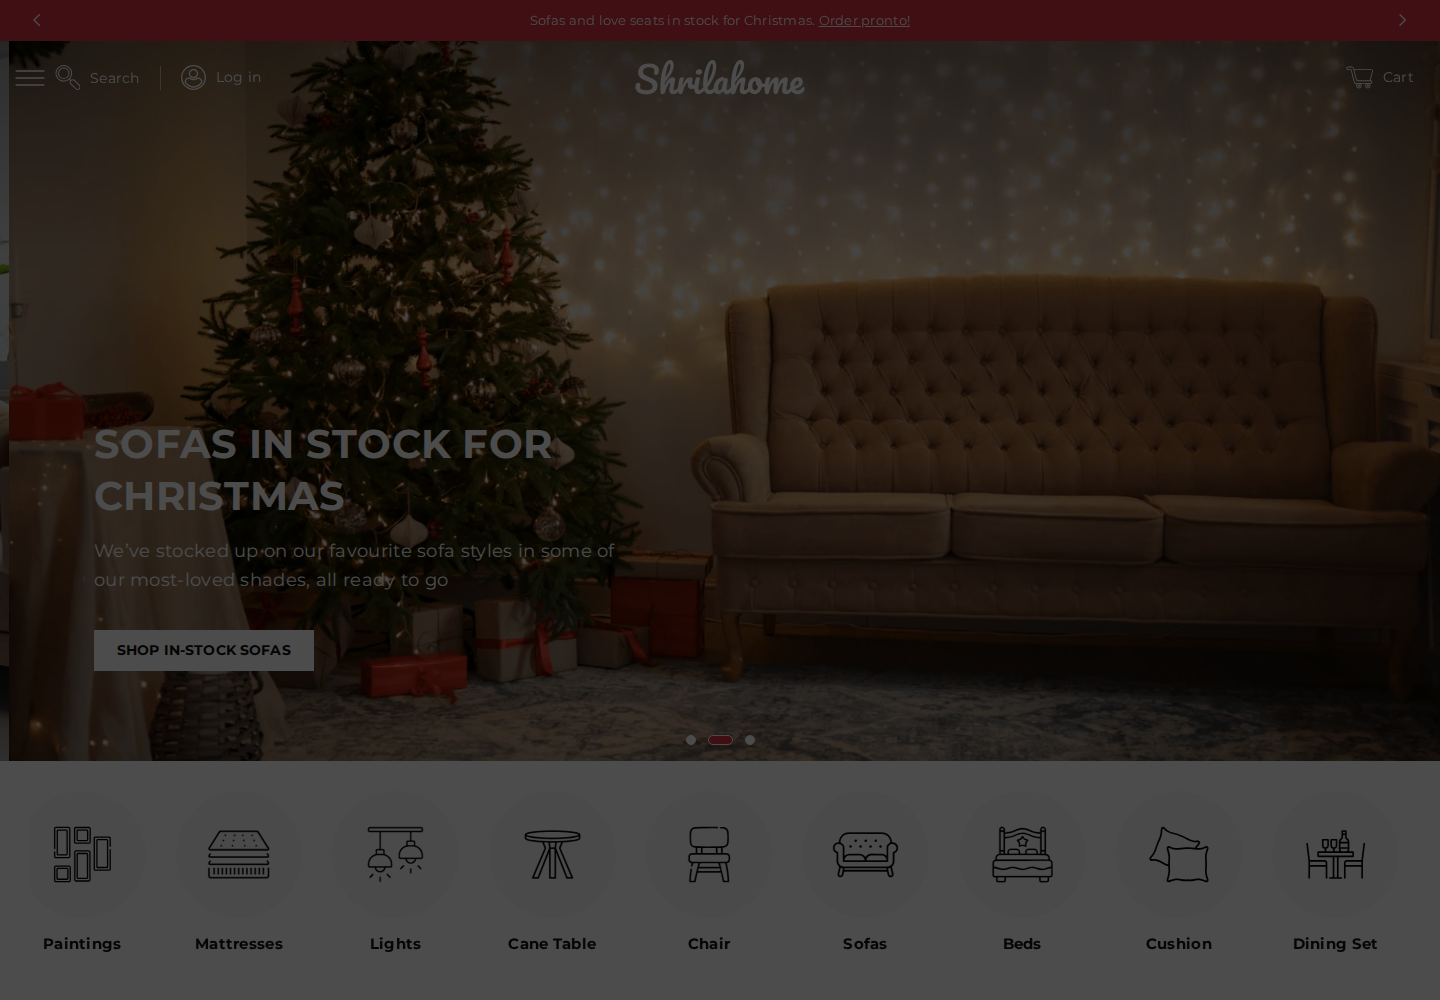
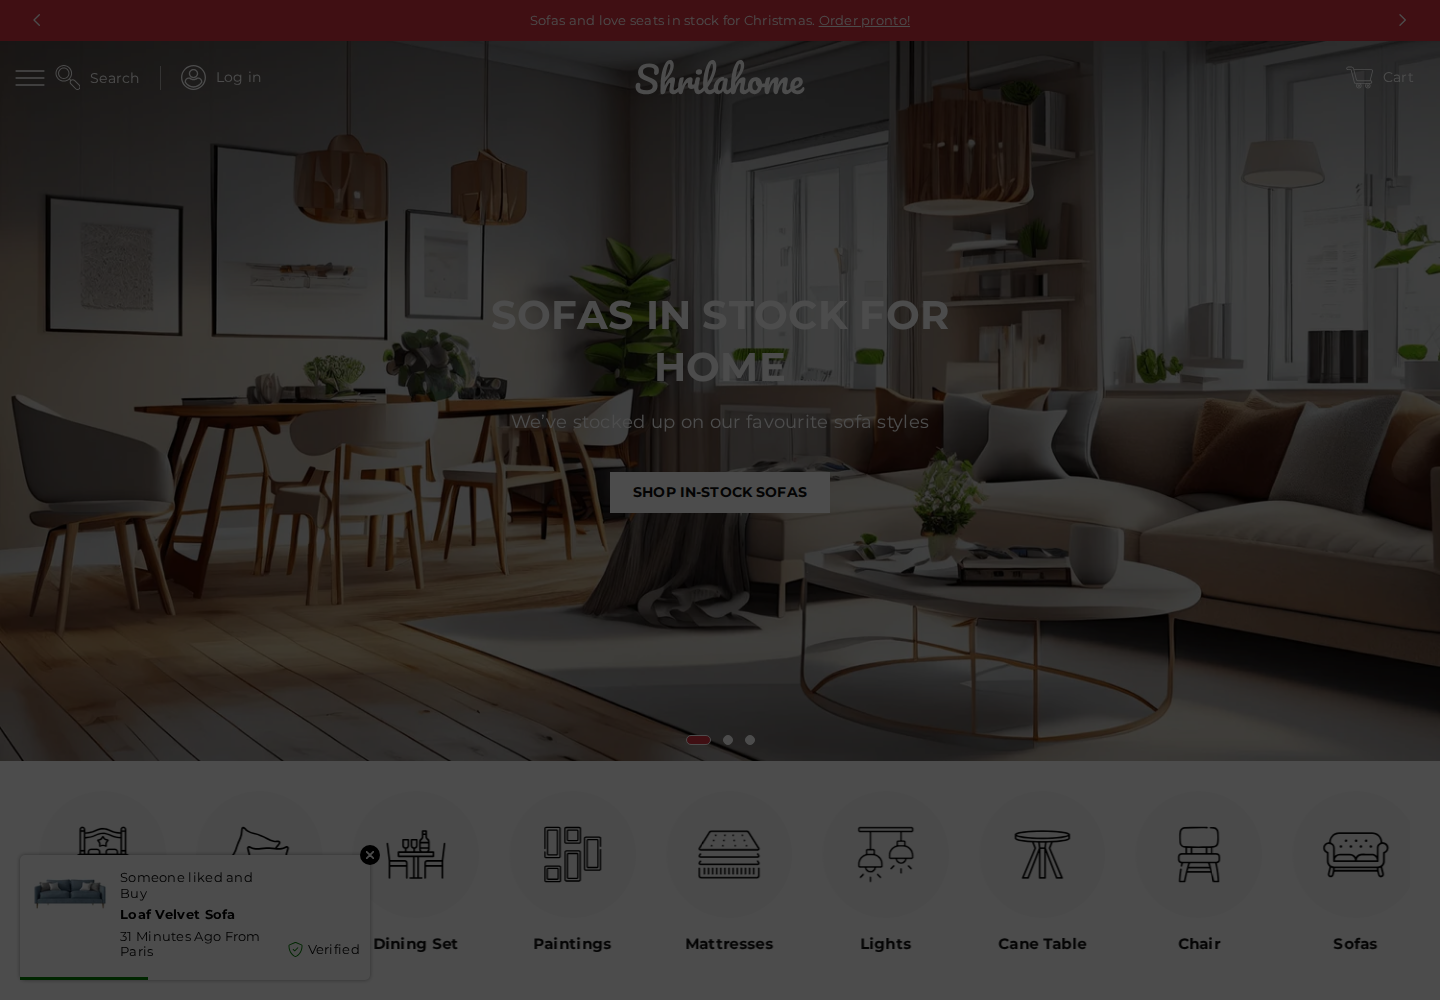
Finish Shrilahome interact findings after one retry
Pixel-verified: hero dot 3 (Christmas → Cushion) and PDP tabs
(Description → Additional Information). Header/menu/search overlay
still missing after retry — 1440 hamburger summary is 0-width, closed
#menu-drawer keeps an off-screen box, two search modals stay hidden.
No schema changes. Validator 0 error.

diff --git a/todo/shrilahome.md b/todo/shrilahome.md
@@ -13,7 +13,7 @@ shop `pandora-furniture-5.myshopify.com`
 
 **Password:** `/` **302** → `/password`. Vendor product page: *Please enter password "1" to view demo.* Hidden input `value="1"` posts to **this same host**. Public storefront-unlock. Başka host yok.
 
-**Durum:** Mod A roster yazıldı · 3vp + interact **sırada** · **main'e merge yok**
+**Durum:** Mod A + interact kapandı · **38 obs · 166 PNG · 0 yeni şema** · **main'e merge yok**
 
 ---
 
@@ -25,10 +25,11 @@ shop `pandora-furniture-5.myshopify.com`
 | Capture | resmi `capture-observation.mjs` + `capture-interaction.mjs` + `unlock-storefront.mjs` (`storefrontPassword: "1"`) |
 | Şema | **0 yeni** — mevcut tiplere observation + delta |
 | Observation | **38** |
+| Evidence | **166 PNG** |
 | Parallel | yalnız `observations/shrilahome/`, `evidence/shrilahome/`, `todo/shrilahome.md`, `candidates/shrilahome-leftovers.md`, kaynak/endüstri map, unlock helper |
 
-**Kapsam satırı (hedef):**  
-`Shrilahome · default · Shrilahome-Furniture-v-1-5-0 / schema_name shrilahome 1.5.0 · theme_store_id null · shop pandora-furniture-5.myshopify.com · password 1 · home→PDP circle-lounge-chairs→PLP armchairs→/collections→search sofa→cart→about/contact/faqs→404 · 38 obs · 0 yeni şema · leftover: candidates/shrilahome-leftovers.md`
+**Kapsam satırı:**  
+`Shrilahome · default · Shrilahome-Furniture-v-1-5-0 / schema_name shrilahome 1.5.0 · theme_store_id null · shop pandora-furniture-5.myshopify.com · password 1 · home→PDP circle-lounge-chairs→PLP armchairs→/collections→search sofa→cart→about/contact/faqs→404 · 38 obs · 166 PNG · 0 yeni şema · leftover: candidates/shrilahome-leftovers.md`
 
 ---
 
@@ -36,20 +37,22 @@ shop `pandora-furniture-5.myshopify.com`
 
 | Şablon | Durum | 3vp |
 |---|---|---|
-| Home roster (announcement→footer) | roster | [ ] capture |
-| Header kapalı + 1440 menu | roster | [ ] interact |
-| Predictive search `sofa` | roster | [ ] interact |
-| Mobile hamburger 375+768 | roster | [ ] interact |
-| Cart drawer / notification filled | roster | [ ] interact |
-| PDP Circle Lounge Brown→Gray | roster | [ ] interact |
-| PLP `/collections/armchairs` | roster | [ ] capture |
-| Collections index `/collections` | roster | [ ] capture |
-| Search `/search?q=sofa` | roster | [ ] capture |
-| Cart `/cart` empty + filled + qty | roster | [ ] interact |
-| About `/pages/about-us` | roster | [ ] capture |
-| Contact form (submit yok) | roster | [ ] interact initial |
-| FAQ accordion | roster | [ ] interact |
-| 404 | roster | [ ] capture |
+| Home roster (announcement→footer) | done | [x] 3vp |
+| Header kapalı + 1440 menu | initial kanıtlı; open kare homepage | [x] interact · open missing |
+| Predictive search `sofa` | overlay input missing; `/search?q=sofa` var | [x] interact · input missing |
+| Mobile hamburger 375+768 | DOM açılıyor; PNG drawer göstermedi | [x] interact · open/changed missing |
+| Cart drawer filled | Circle Lounge + YOU MAY LIKE | [x] |
+| PDP Circle Lounge Brown→Gray | Color etiketi + galeri 1440 | [x] |
+| PLP `/collections/armchairs` | banner + grid | [x] |
+| Collections index `/collections` | 15 kart | [x] |
+| Search `/search?q=sofa` | grid | [x] |
+| Cart `/cart` empty + filled + qty | $120 → $240 | [x] |
+| About `/pages/about-us` | 5 obs | [x] |
+| Contact form (submit yok) | initial | [x] |
+| FAQ accordion | açık→kapalı | [x] |
+| 404 | Page not found | [x] |
+| Hero dots slayt 3 | Christmas → Cushion | [x] |
+| PDP tabs Description→Additional | kırmızı sekme + metin | [x] |
 | Blog `/blogs/news` | leftover — home'a düşer | — |
 | Email / account / checkout / newsletter submit | ⛔ dur | — |
 
@@ -60,12 +63,12 @@ shop `pandora-furniture-5.myshopify.com`
 | # | Shrilahome / id | QANTE schemaId | Karar |
 |---|---|---|---|
 | 1 | announcement_bar_fHNTbB | `promo-announcement-bar` | reuse |
-| 2 | header | `navigation-header-mega` | reuse · sticky h=0 wrapper |
-| 3 | slideshow 3b7cb796 | `hero-slideshow` | reuse · 3 slayt |
+| 2 | header | `navigation-header-mega` | reuse · sticky h=0 wrapper · always hamburger |
+| 3 | slideshow 3b7cb796 | `hero-slideshow` | reuse · 3 slayt · ok gizli |
 | 4 | categories_slider_1 | `collection-nav-slider` | reuse · daire ikon |
 | 5 | rich_text_wDFqxx | `editorial-rich-text` | reuse |
 | 6 | image-banner 8b5479f1 | `editorial-image-with-text-overlay` | reuse · metinsiz |
-| 7 | categories_slider_2 | `collection-nav-slider.2` | reuse · foto+CTA |
+| 7 | categories_slider_2 | `collection-nav-slider.2` | reuse · foto+SHOP NOW |
 | 8 | multirow 7722eea3 | `editorial-image-with-text` | reuse · 2 satır |
 | 9 | custom_collection_list_3FaNcq | `collection-nav-image-cards` | reuse |
 | 10 | image_with_text_rQFUNp | `editorial-image-with-text.2` | reuse |
@@ -73,9 +76,9 @@ shop `pandora-furniture-5.myshopify.com`
 | 12 | image_with_text_EVYkJc | `editorial-image-with-text.3` | reuse |
 | 13 | custom_announcement_bar_jQffkk | `promo-scrolling-marquee` | reuse · mid-page |
 | 14 | footer | `footer-columns-newsletter` | reuse · submit yok |
-| 15 | #menu-drawer | `global-menu-drawer` | reuse · 375/768 |
-| 16 | details-modal.header__search | `global-predictive-search` | reuse |
-| 17 | #CartDrawer | `global-cart-drawer` | reuse |
+| 15 | #menu-drawer | `global-menu-drawer` | reuse · open PNG yok |
+| 16 | details-modal.header__search | `global-predictive-search` | reuse · overlay input yok |
+| 17 | #CartDrawer | `global-cart-drawer` | reuse · filled |
 | 18 | newsletter-popup | — | leftover + fake purchase toast |
 
 ---
@@ -88,8 +91,8 @@ shop `pandora-furniture-5.myshopify.com`
 
 ## Evidence backlog
 
-- [ ] Official 3vp static (`capture-observation.mjs`)
-- [ ] Interact header / search / cart / menu / PDP Color / FAQ / hero next
-- [ ] PNG bak → stateFindings
-- [ ] `npm run validate`
-- [ ] Newsletter / account / checkout — **yapılmayacak** (PII)
+- [x] Official 3vp static (`capture-observation.mjs`)
+- [x] Interact cart / PDP Color / FAQ / hero dots / tabs / contact initial / footer
+- [x] PNG bak → stateFindings (+ missingStates: header open, menu open/changed, search input)
+- [x] `node scripts/validate-schemas.mjs` — 0 error · 13 warn (önceden; şema yazılmadı)
+- [x] Newsletter / account / checkout — **yapılmadı** (PII)

diff --git a/candidates/shrilahome-leftovers.md b/candidates/shrilahome-leftovers.md
@@ -98,7 +98,23 @@ Karar: onay bekliyor
 ---
 
 ADAY: cro-absent  
-Gerekçe: Home’da featured product grid, countdown, quiz, before-after, lookbook, shop-the-feed yok.  
+Gerekçe: Home’da featured product grid, countdown, quiz, before-after, lookbook, shop-the-feed yok. Countdown PDP buy-box içinde.  
 Örnekler: https://pandora-furniture-5.myshopify.com/  
 Öneri: leftover — CRO tipi yok  
+Karar: onay bekliyor
+
+---
+
+ADAY: shrilahome-always-hamburger  
+Gerekçe: 1440’te de hamburger. Inline mega yok. `summary.header__icon--menu` 1440 w=0; SVG 32×32. Kapalı `#menu-drawer` off-screen w=400 — capture kutu yazar, viewport homepage kalır. 375 açık drawer yoklandı (DOM) ama PNG yazılmadı.  
+Örnekler: home header  
+Öneri: leftover — interact open/changed menü karesi yok  
+Karar: onay bekliyor
+
+---
+
+ADAY: shrilahome-search-modal-split  
+Gerekçe: İki `details-modal.header__search`. 1440 `#Search-In-Modal-1`, 375 `#Search-In-Modal`. Overlay fill ikinci denemede hidden kaldı. `/search?q=sofa` PLP kanıtlı.  
+Örnekler: home header  
+Öneri: leftover — predictive overlay  
 Karar: onay bekliyor

diff --git a/todo/README.md b/todo/README.md
@@ -45,7 +45,7 @@
 | Into The Gloss | [`intothegloss.md`](./intothegloss.md) | ✅ listicle-holiday-2025 · 9 obs · 27 PNG · 0 yeni şema · Next.js editorial |
 | HexClad | [`hexclad.md`](./hexclad.md) | ✅ listicle-fathers-day · 5 obs · 15 PNG · 0 yeni şema |
 | Allbirds | [`allbirds.md`](./allbirds.md) | 🟡 Mod A — 30 obs · ~90 PNG · partial capture (search blocked) |
-| Shrilahome (Speedo) | [`shrilahome.md`](./shrilahome.md) | 🟡 Mod A roster — 38 obs · 0 yeni şema · password `1` · 3vp/interact sırada |
+| Shrilahome (Speedo) | [`shrilahome.md`](./shrilahome.md) | ✅ Mod A + interact — 38 obs · 166 PNG · 0 yeni şema · password `1` · menu/search overlay missing |
 | Legal / policy (Kreis recipe) | [`policy-legal.md`](./policy-legal.md) | ✅ page-recipes/policy · 3-col sticky TOC \| content \| sibling nav |
 
 **Interact (discover sonrası derinlik):** [`interact.md`](./interact.md) — kapalı kare yalanı; Stretch + Cocoon/Balance shop-the-look kapandı.
